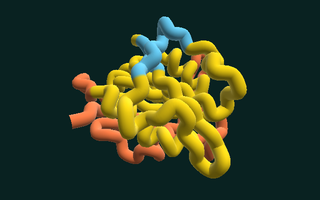
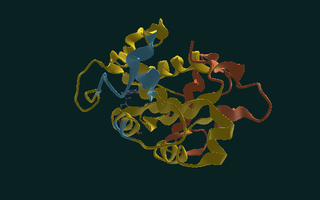
feat: gallery thumbnails rendered through the cartoon, ligands and all
make-thumbnails.py built its pictures with ui.geometry.ribbon_from_cif while
the booth had moved to ui.structure_view -- a thumbnail from a different
renderer than the booth uses is a picture of a booth that does not exist.
Repointed, and all five regenerated from real folds on reset hardware.

What changed visibly: Trp-cage now reads as the helix it is rather than a
loop of tube, trypsin as the beta-rich cartoon it is, and FKBP12 and DHFR
show their BOUND LIGANDS -- the small molecules the booth has been computing
since those targets were added and has never once drawn.

The DNA duplex correctly fell back to the plain tube. It has no peptide
backbone, so there is no secondary structure to assign and no peptide plane
to frame a ribbon from; the fallback in structure_view exists for exactly
this and this is the first time it has run against real output rather than a
fixture.

Copied to docs/thumbnails/ so the site's molecule cards match the booth.

Tests: 1063 UI + 331 runner PASS.

Changed region(s): [[0.2188, 0.06, 0.875, 0.9]]

diff --git a/scripts/make-thumbnails.py b/scripts/make-thumbnails.py
@@ -8,7 +8,7 @@ Run it from the repo root with no arguments:
 Every thumbnail is a picture of a protein this booth ACTUALLY FOLDED. There
 is no stock art here and no hand-drawn approximation: the script folds each
 manifest target on the Tenstorrent card, then draws the resulting structure
-with the booth's own renderer -- `ui.geometry.ribbon_from_cif` for the
+with the booth's own renderer -- `ui.structure_view.structure_mesh` for the
 ribbon and `ui.viewer.StructureViewer` for the paint, the same two modules
 that draw the hero view a visitor watches. A gallery card therefore shows
 the same molecule, in the same pLDDT colours, that pressing it produces.
@@ -201,7 +201,11 @@ def stage_render(args):
     from OpenGL import GL
     from PIL import Image
 
-    from ui.geometry import ribbon_from_cif
+    # The booth's own renderer, which since the cartoon landed means
+    # ui.structure_view -- cartoon plus any bound ligand. A thumbnail
+    # built from a different renderer than the booth uses is a picture
+    # of a booth that does not exist.
+    from ui.structure_view import structure_mesh as ribbon_from_cif
     from ui.viewer import StructureViewer
 
     cif_by_id = json.loads(sys.stdin.read())
